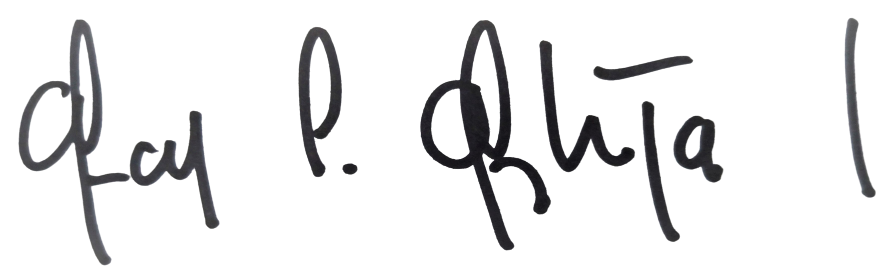
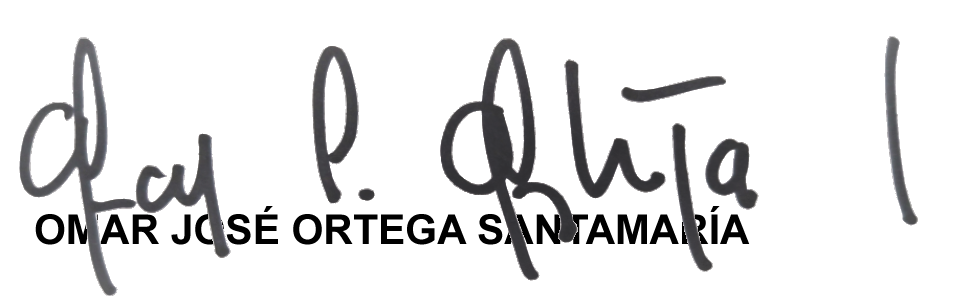
Cotizacion - Images

Changed region(s): [[0.0, 0.0576, 0.8125, 1.0], [0.9062, 0.0576, 1.0, 0.7482]]

diff --git a/resources/views/pdfs/cotizacion.blade.php b/resources/views/pdfs/cotizacion.blade.php
@@ -24,6 +24,7 @@
     .t38            { font-size:38pt; line-height:38pt; }
     .t40            { font-size:40pt; line-height:40pt; }
     .t44            { font-size:44pt; line-height:40pt; }
+    .t56            { font-size:56pt; line-height:56pt; }
     .mb3            { margin-bottom:3pt; }
     .mb10           { margin-bottom:10pt; }
     .mb15           { margin-bottom:15pt; }
@@ -44,7 +45,7 @@
     .bRad1          { border-radius:10pt 10pt 0 0; }
     .bRad2          { border-radius:0 0 10pt 10pt; }
     .vatop          { vertical-align:top;}
-    .colorcripack   { color: #16182F} ;
+    .colorcripack   { color: #20286d} ;
 
     /* a partir de aqui puedes crear lo que consideses. las clases que necesites */
     .img {width: 20px; height:10px; margin: 10px 0;}
@@ -61,16 +62,16 @@
         <table width="100%" class="mb40">
             <tr>
                 <td width="30%">
-                   <img src="D:\Laragon\www\Cripack-Erp-Server-Laravel-V.7.12.Ene.2021\storage\app/public/images\logo\Logo30anios.png" alt="" width="100%" >              
+                   <img src="{{ asset('storage/images/logo/Logo30anios.png') }}" alt="" width="100%" >              
                 </td>
               
                 <td width="40%" class="taC colorcripack">
-                    <div class="t44 tB "> CRIPACK S.A.S </div>
+                    <div class="t56 tB "> CRIPACK S.A.S </div>
                     <div class="t24 mb10"  >NIT 800.149.062-1</div>
                     <div class="t24 mb10" >Carrera 6 # 21 - 44 Cali - Colombia</div>
                     <div class="t24 mb10" >Código postal 760044 </div>
-                    <div class="t24 mb10" >(57)(602) 387 3164 </div>
-                    <div class="t24 mb10" >Cel. 315 270 1964 </div>
+                    <div class="t24 mb10" >(57)(602) 387 31 64 </div>
+                    <div class="t24 mb10" >Cel. 315 270 19 64 </div>
                     
                 </td>
                  <td width="30%" class="taR">
@@ -228,15 +229,13 @@
 
     
     <div>
-        <div class="">
+
         <div class="contenedor">
-             <img class="img" src="D:\Laragon\www\Cripack-Erp-Server-Laravel-V.7.12.Ene.2021\storage\app/public/images\firmas\omar.png"   /> 
+             <img class="img" src="{{  asset('storage/images/frimas/omar.png') }} "   /> 
         </div>
        
-        <div class="mt10">
-            <div class="">OMAR JOSÉ ORTEGA SANTAMARÍA</div>  
-        </div>
-        </div>
+
+ 
     </div>
 
     </div>

diff --git a/routes/api.php b/routes/api.php
@@ -85,13 +85,6 @@ Route::group(['prefix'=>'tcc/'], function() {
     Route:: get('remisiones/pdtes/fecha/entrega'           , $localController.'remisionesPdtesFechaEntregaTcc');
 });
 
-Route::get('getLogo', function () {
-        return \Storage::disk('Images')->path('logo\cripack.jpg');
-})->name('getLogo');
-
- 
-
- 
 
 
 /*
